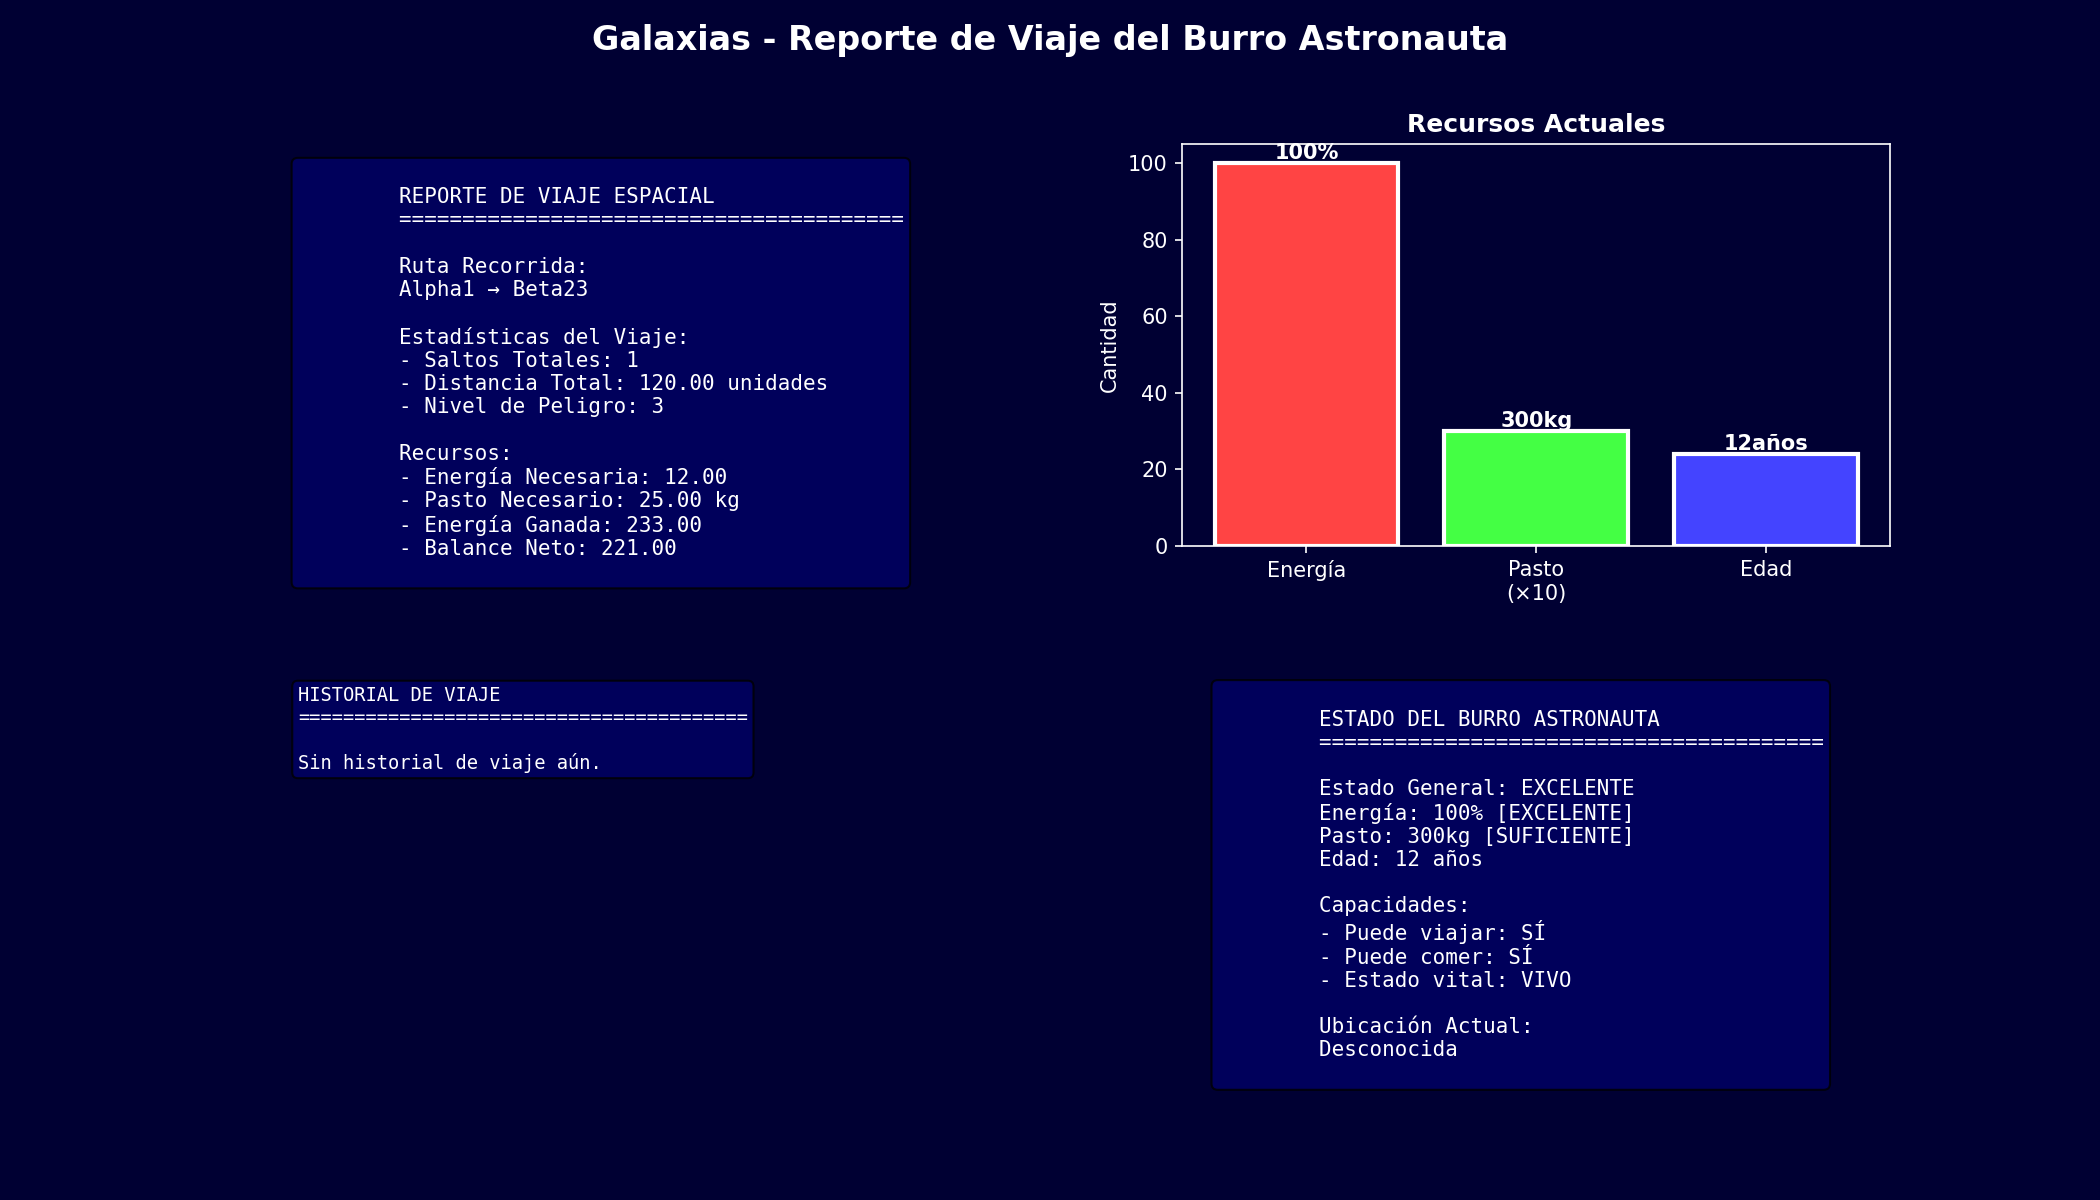
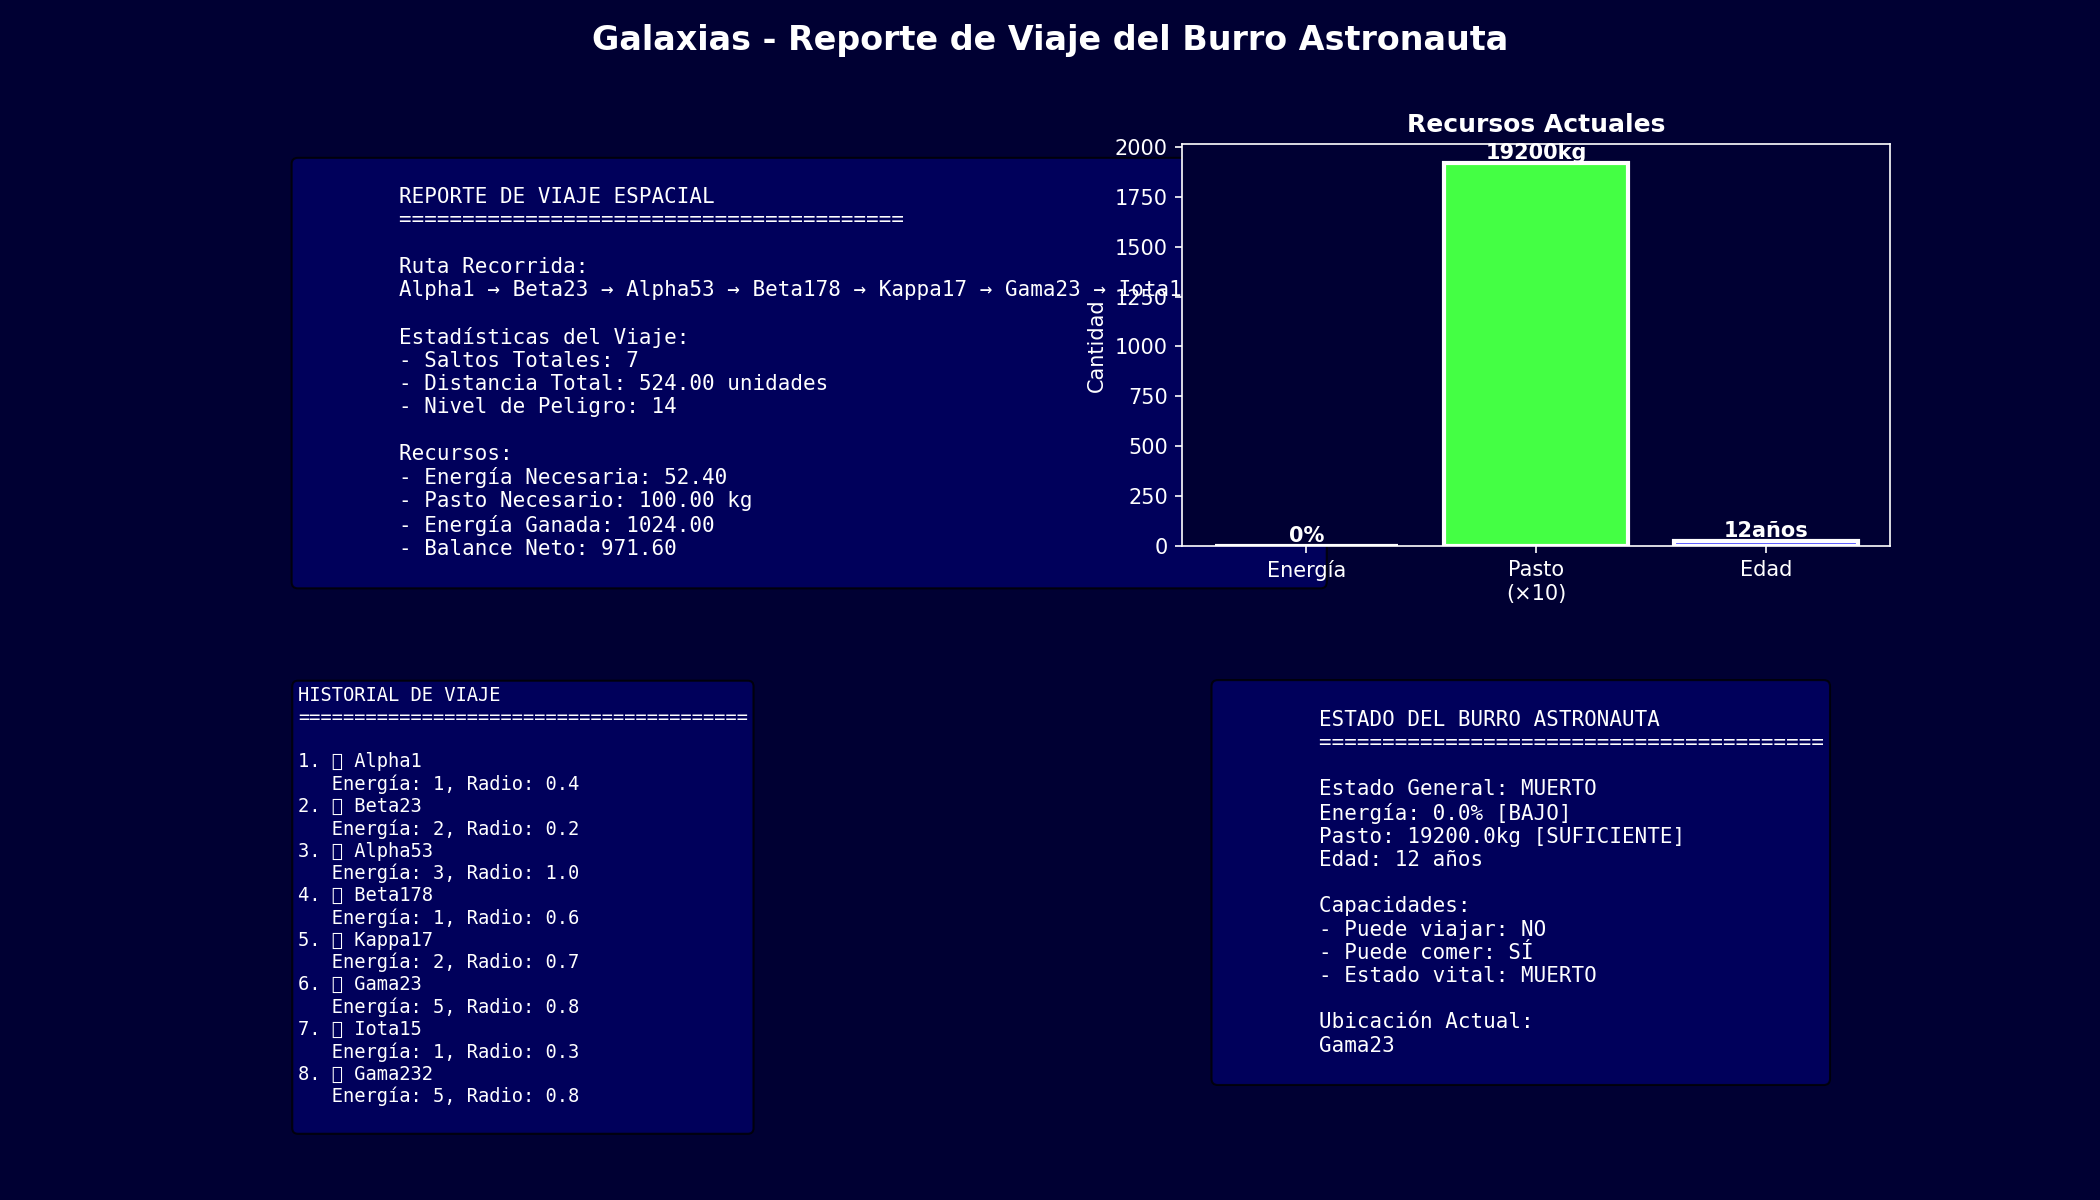
correccion error de actualisacion estado del burro

diff --git a/src/gui/services/burro_journey_service.py b/src/gui/services/burro_journey_service.py
@@ -159,16 +159,17 @@ class BurroJourneyService:
         )
     
     def simulate_journey(self, path: List[Star], burro: BurroAstronauta) -> List[JourneyStep]:
-        """Simula un viaje completo aplicando toda la lógica unificada."""
+        """Simula un viaje completo aplicando toda la lógica unificada, usando el estado actual del burro."""
         if not path:
             return []
         try:
-            self.reset_burro_to_json_values(burro)
-            current_energy = self.initial_energy
-            current_grass = self.initial_grass
-            current_health = self.initial_health
-            current_life = self.initial_life_remaining
-            current_age = self.start_age
+            # Usar los valores actuales del burro, no los del JSON
+            current_energy = burro.current_energy
+            current_grass = burro.current_pasto
+            current_health = burro.estado_salud
+            current_age = burro.current_age
+            # Calcular vida restante según edad actual
+            current_life = self.death_age - current_age
             journey_steps = []
             for i, star in enumerate(path):
                 try:

diff --git a/src/gui/main_gui.py b/src/gui/main_gui.py
@@ -129,18 +129,7 @@ class GalaxiasGUI:
         if not path:
             messagebox.showerror("Error", "No hay ruta para simular")
             return
-        
-        # Resetear burro a valores del JSON antes del viaje
-        self.journey_service.reset_burro_to_json_values(self.burro)
-        initial_msg = (f"\n🔄 REINICIANDO A VALORES DEL JSON:"
-                      f"\n✨ Energía inicial: {self.journey_service.initial_energy}%"
-                      f"\n🌾 Pasto inicial: {self.journey_service.initial_grass} kg"
-                      f"\n💚 Salud inicial: {self.journey_service.initial_health.upper()}"
-                      f"\n⏰ Vida restante: {self.journey_service.initial_life_remaining:.1f} años")
-        self.burro_controller.append_status_message(initial_msg)
-        self._update_all_displays()
-        self.root.update()
-        
+      
         # Simular el viaje completo con la lógica unificada
         start_msg = f"\n🚀 INICIANDO VIAJE - Ruta de {len(path)} estrellas"
         self.burro_controller.append_status_message(start_msg)
